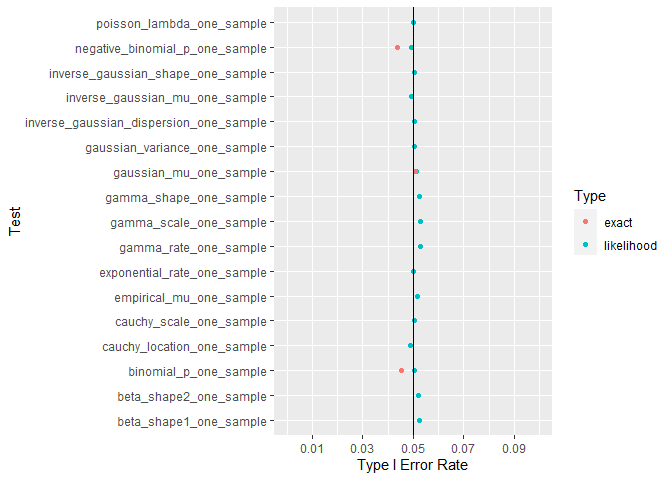
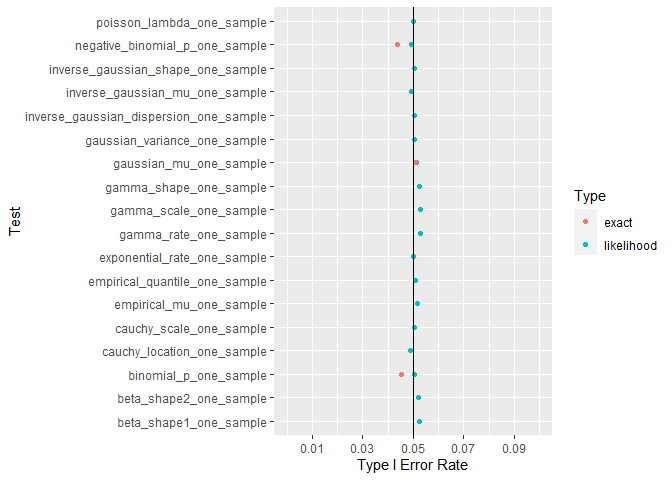
add quantile test

diff --git a/type I/README.md b/type I/README.md
@@ -78,6 +78,10 @@ likelihood tests across alternative hypotheses.
 
 <img src="man/figures/README-InvGaussI-1.png" width="100%" /><img src="man/figures/README-InvGaussI-2.png" width="100%" />
 
-## Empirical Likelihood
+## Empirical Likelihood For Mu
 
 <img src="man/figures/README-empTypeI-1.png" width="100%" /><img src="man/figures/README-empTypeI-2.png" width="100%" />
+
+## Empirical Likelihood For Quantile
+
+<img src="man/figures/README-empQuantTypeI-1.png" width="100%" /><img src="man/figures/README-empQuantTypeI-2.png" width="100%" />

diff --git a/type II/README.md b/type II/README.md
@@ -91,6 +91,10 @@ effect sizes.
 
 <img src="man/figures/README-InvGaussII-1.png" width="100%" />
 
-## Empirical Likelihood
+## Empirical Likelihood For Mu
 
 <img src="man/figures/README-empTypeII-1.png" width="100%" />
+
+## Empirical Likelihood For Quantile
+
+<img src="man/figures/README-empQuantTypeII-1.png" width="100%" />
